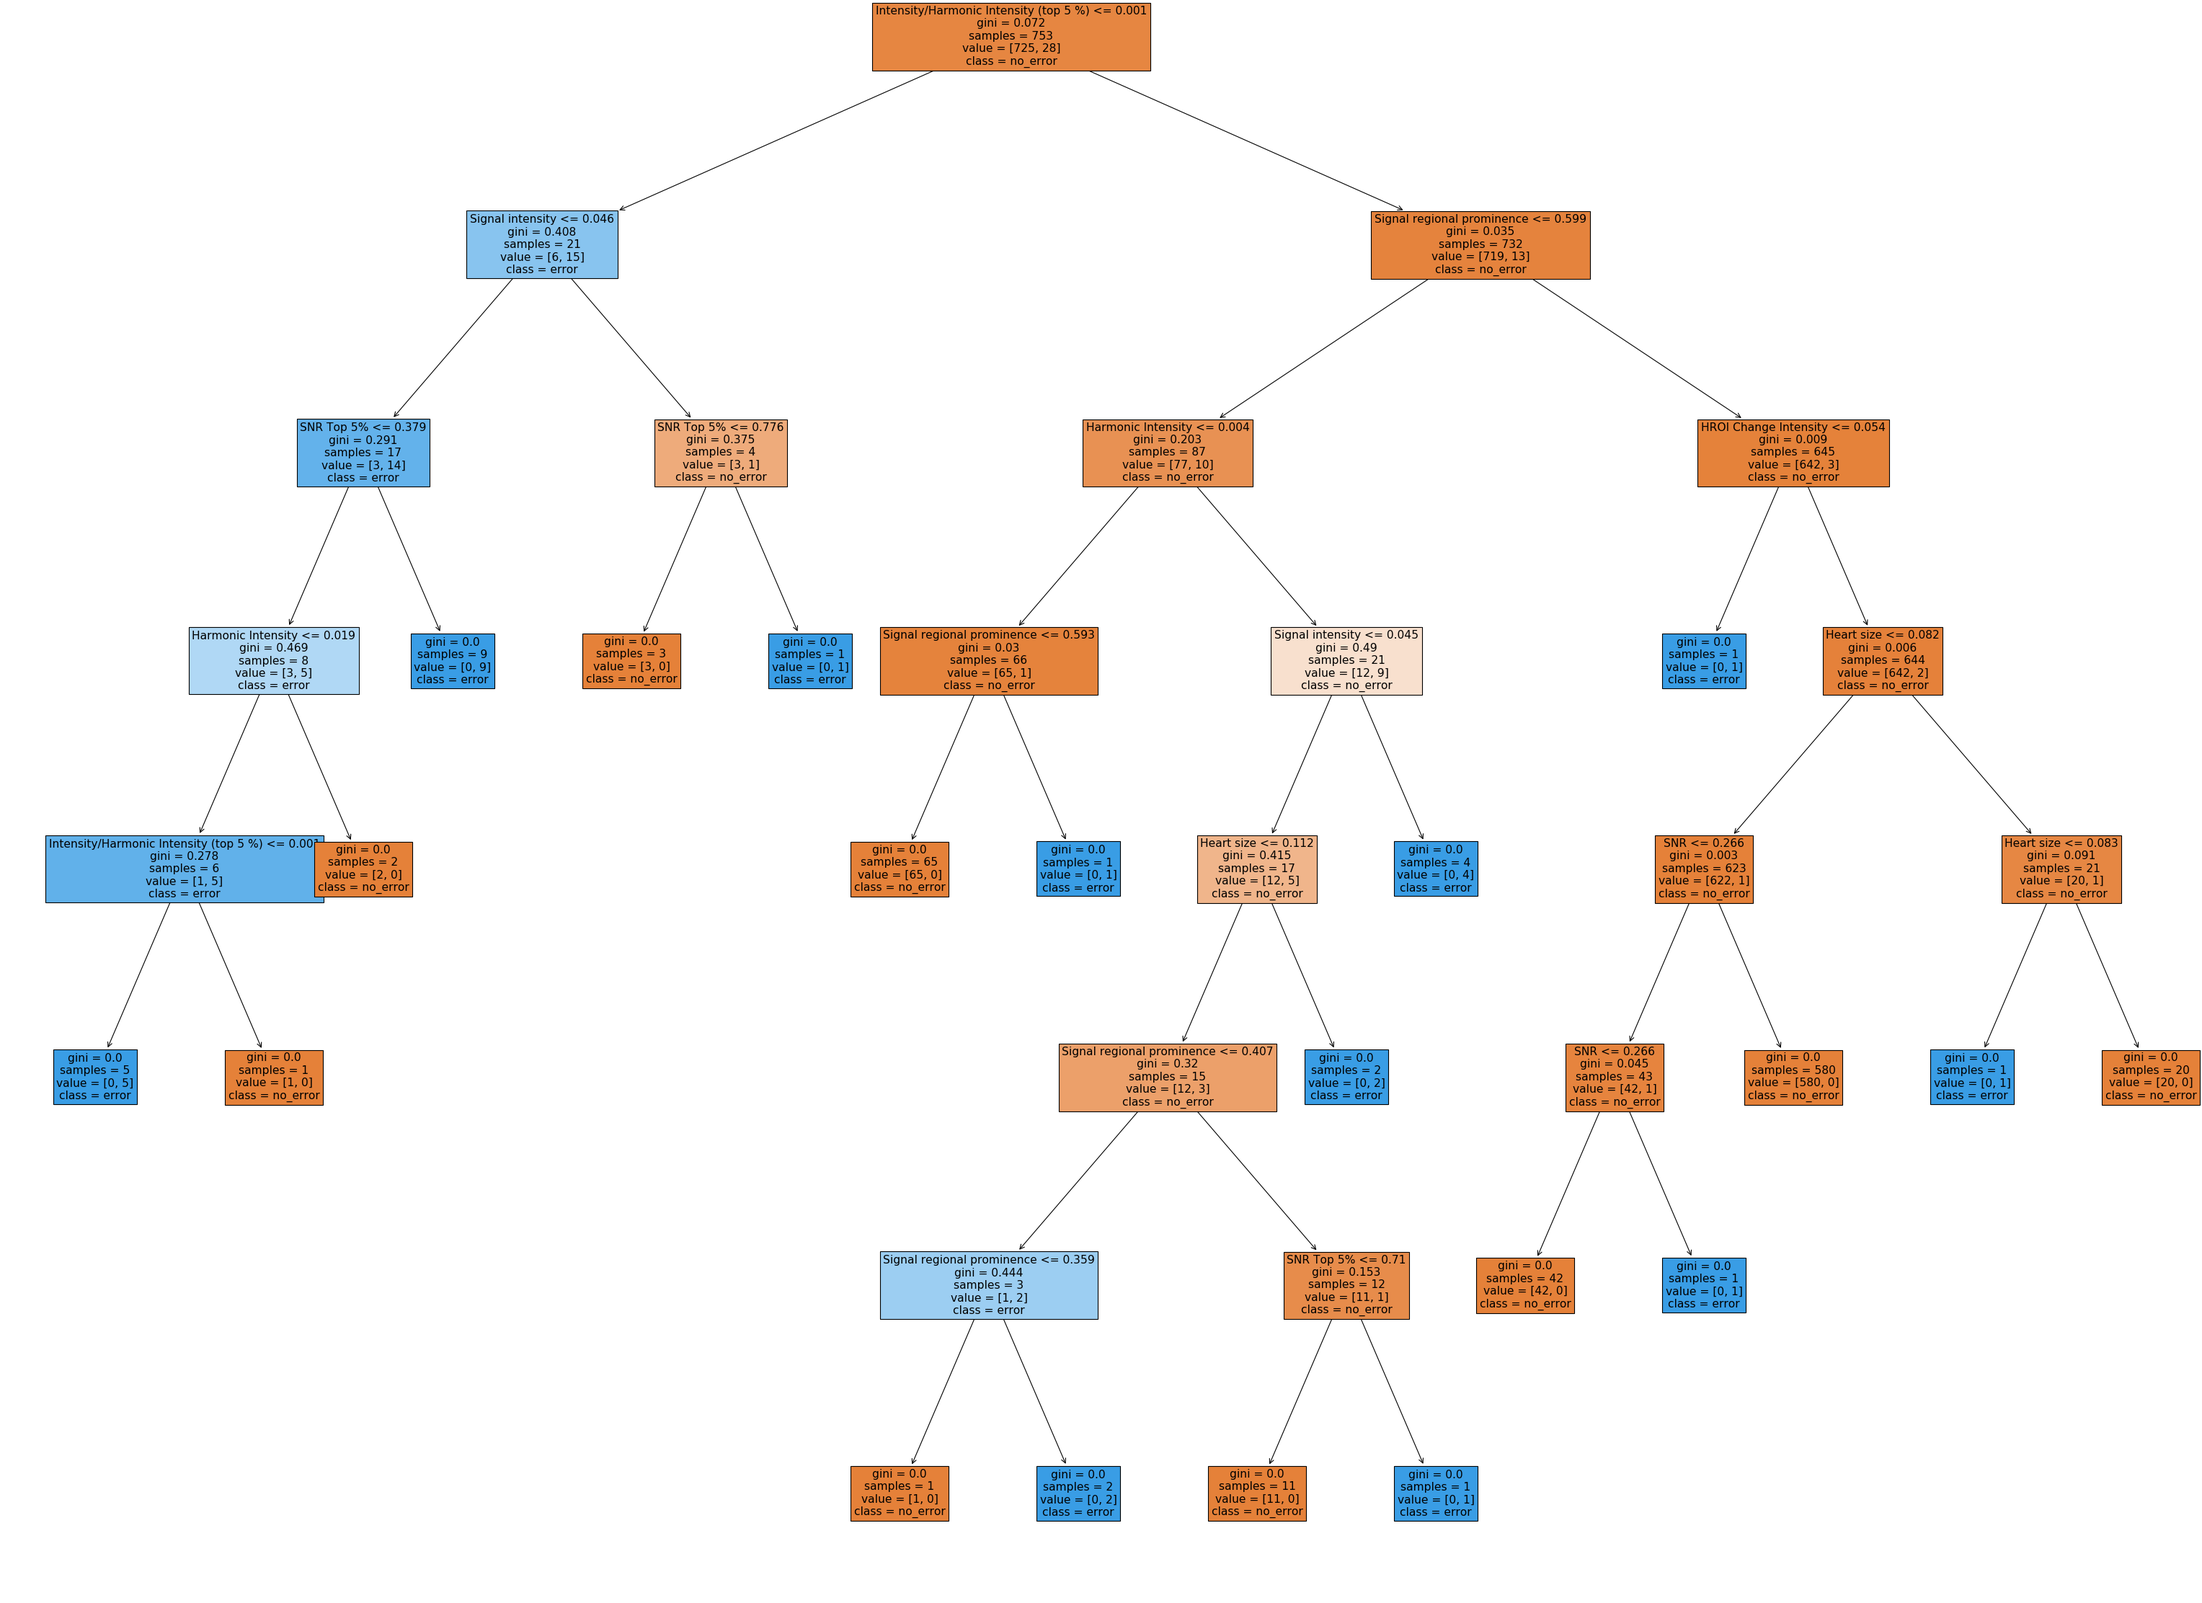
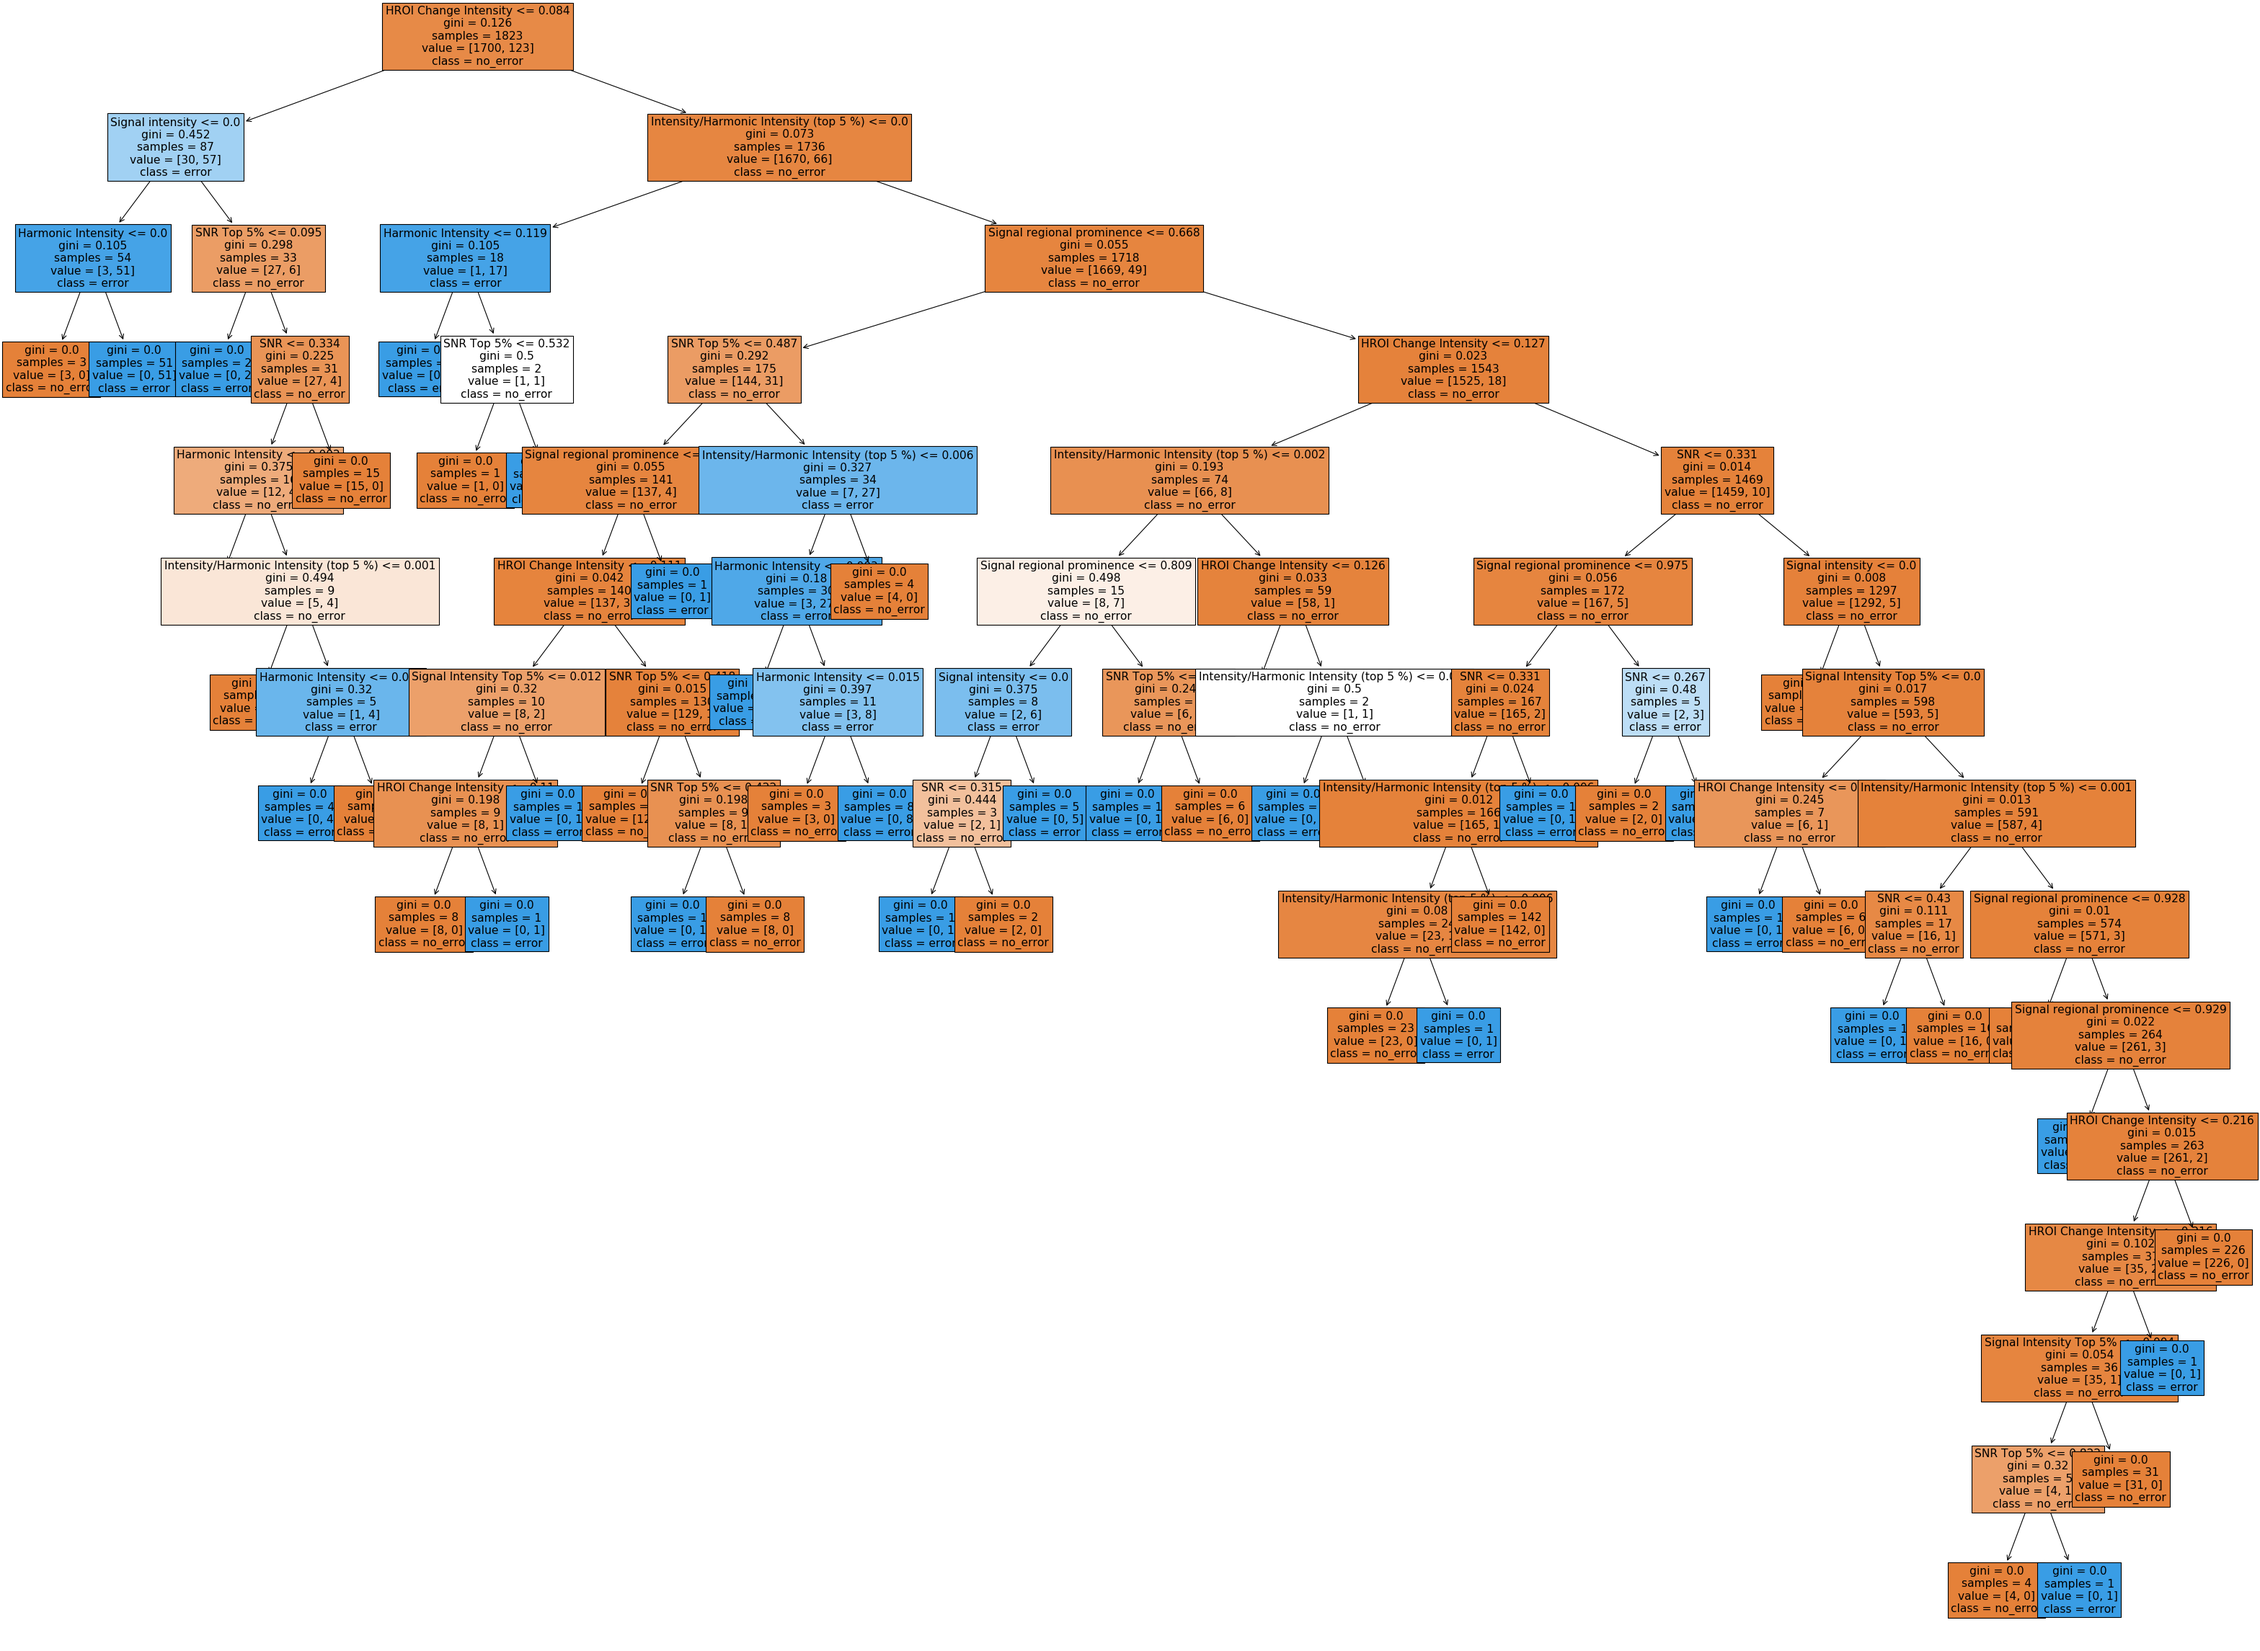
Decision tree almost done.

diff --git a/qc_analysis/decision_tree/src/analysis.py b/qc_analysis/decision_tree/src/analysis.py
@@ -27,11 +27,11 @@ from sklearn.tree import DecisionTreeClassifier
 from sklearn.model_selection import train_test_split, GridSearchCV
 
 #################### -- GLOBALS -- ####################
-TEST_SET_SIZE = 0.3
+TEST_SET_SIZE = 0.2
 
-PLOT_SAVE_DIR = os.path.relpath("figs")
-DATA_SAVE_DIR = os.path.relpath("thresholds")
-TREE_SAVE_DIR = os.path.relpath("data")
+PLOT_SAVE_DIR = "figs"
+DATA_SAVE_DIR = "thresholds"
+TREE_SAVE_DIR = os.path.join(__file__, *(4 * [os.pardir]), "data")
 
 LABELS = "error"
 
@@ -74,14 +74,16 @@ def plot_qc_params(data: pd.DataFrame,
     plt.close()
 
 def convert_error_cat(actual: Iterable, desired: Iterable, threshold: float) -> list:
+    # 1 -> ERROR and 0 -> NO ERROR.
     return [1 if abs(a - d) >= threshold else 0 for a, d in zip(actual, desired)]
 
 def process_data(raw_data: pd.DataFrame, threshold: float) -> Tuple[pd.DataFrame, np.array]:
     # Columns to drop will also drop prexisting error columns.
-    data = raw_data[(QC_FEATURES + ["Heartrate (BPM)", "ground truth"])]
-    
     actual = "Heartrate (BPM)"
     desired = "ground truth"
+    
+    data = raw_data[QC_FEATURES + [actual, desired]].copy()
+    
     data[LABELS] = convert_error_cat(data[actual], data[desired], threshold)
     
     data = data.drop(columns = [actual, desired])
@@ -94,23 +96,41 @@ def process_data(raw_data: pd.DataFrame, threshold: float) -> Tuple[pd.DataFrame
 
 def decision_tree(data: pd.DataFrame) -> Tuple[sklearn.tree.DecisionTreeClassifier, dict]:
     Y = data.pop(LABELS)
-    # X_train, X_test, Y_train, Y_test = train_test_split(data, Y, test_size = TEST_SET_SIZE, random_state = 104729)
+
+    X_train, X_test, Y_train, Y_test = train_test_split(
+        data, 
+        Y, 
+        test_size = TEST_SET_SIZE, 
+        random_state = 104729,
+        shuffle = True
+    )
+
     classifier = DecisionTreeClassifier(random_state = 224737, min_samples_split = 2)
     
     # K-Fold cross validation.
     folds = 6
-    cv_results = cross_validate(classifier, data, Y, cv = folds, scoring = "accuracy")
+    cv_results = cross_validate(
+        estimator = classifier, 
+        X = X_train, 
+        y = Y_train, 
+        cv = folds, 
+        scoring = "accuracy",
+        return_train_score = True,
+        return_estimator = True
+    )
+
+    best_classifier = cv_results["estimator"][np.argmax(cv_results["test_score"])]
 
     classifier_results = {
         "K Folds": folds,
-        "Train Scores" : cv_results.get("train_score"), 
-        "Test Scores": cv_results.get("test_score"), 
-        "Mean Train Score": np.mean(cv_results.get("train_score")),
-        "Mean Test Score": np.mean(cv_results.get("test_score"))
+        "Train Scores": cv_results["train_score"], 
+        "Validation Scores": cv_results["test_score"], 
+        "Mean Train Score": np.mean(cv_results["train_score"]),
+        "Mean Validation Score": np.mean(cv_results["test_score"]),
+        "Best Classifier Test Score": best_classifier.score(X_test, Y_test)
     }
-    
-    classifier_results = {k: [v] for k, v in classifier_results.items() if not isinstance(v, list)}
-    return classifier, classifier_results
+
+    return best_classifier, {k: [v] for k, v in classifier_results.items() if not isinstance(v, list)}
     
 def plot_decision_tree(tree: sklearn.tree.DecisionTreeClassifier,
                        save_name: str,
@@ -134,10 +154,11 @@ def plot_decision_tree(tree: sklearn.tree.DecisionTreeClassifier,
 def get_thresholds(unscaled_data: pd.DataFrame,
                    train_data_features: Iterable, 
                    classifier: sklearn.tree.DecisionTreeClassifier) -> dict:
+
     n_nodes = classifier.tree_.node_count
     feature = classifier.tree_.feature
     threshold = classifier.tree_.threshold
-    limits = dict()
+    limits = {}
 
     for i in range(n_nodes):
         if feature[i] != -2:
@@ -172,14 +193,13 @@ def write_results(raw_data: pd.DataFrame,
     results_dir = os.path.join(out_dir, "-".join(["qc_analysis_results_training", raw_data["DATASET"][0]]))
     
     if os.path.exists(results_dir):
-         print("Results directory already exists. Overwriting.")
+        print("Results directory already exists. Overwriting.")
     
     os.makedirs(results_dir, exist_ok = True)
     
     plots_dir = os.path.join(results_dir, PLOT_SAVE_DIR)
     data_dir = os.path.join(results_dir, DATA_SAVE_DIR)
-    tree_dir = os.path.join(results_dir, TREE_SAVE_DIR)
-    # print(tree_dir)
+    tree_dir = os.path.abspath(TREE_SAVE_DIR)
     
     if not os.path.exists(data_dir):
         os.makedirs(data_dir)
@@ -190,15 +210,26 @@ def write_results(raw_data: pd.DataFrame,
     if not os.path.exists(tree_dir):
         os.makedirs(tree_dir)
         
-    plot_qc_params(data = raw_data, limits = limits, save_name = "qc_params_thresholds", figsize = (10, 40), out_dir = plots_dir)
-    plot_decision_tree(tree = classifier, feature_names =  data.columns, save_name = "decision_tree", out_dir = plots_dir)
+    plot_qc_params(
+        data = raw_data, 
+        limits = limits, 
+        save_name = "qc_params_thresholds", 
+        figsize = (10, 40), 
+        out_dir = plots_dir
+    )
+    plot_decision_tree(
+        tree = classifier, 
+        feature_names = data.columns, 
+        save_name = "decision_tree", 
+        out_dir = plots_dir
+    )
     
     threshold_data = process_limits(limits)
     threshold_data.to_csv(os.path.join(data_dir, "qc_thresholds.csv"))
     
     pd.DataFrame(classifier_results).to_csv(os.path.join(data_dir, "classifier_results.csv"))
     
-    # Write the tree to a sav file. This file needs to be accessed by medaka_bpm.
+    # Write the tree to a sav file. This file needs to be accessed from medaka_bpm.
     joblib.dump(classifier, os.path.join(tree_dir, "decision_tree.sav"))
 
 def evaluate(trained_tree: sklearn.tree.DecisionTreeClassifier, data: pd.DataFrame):

diff --git a/qc_analysis/README.md b/qc_analysis/README.md
@@ -17,14 +17,13 @@ The results file needs to have the following QC parameters as features:
 
 	1. HROI Change Intensity
 	2. Harmonic Intensity
-	3. Heart size
-	4. Movement detection max
-	5. SNR
-	6. Signal intensity
-	7. Signal regional prominence
-	8. Intensity/Harmonic Intensity (top 5 %)
-	9. SNR Top 5%
-	10. Signal Intensity Top 5%
+	3. Movement detection max
+	4. SNR
+	5. Signal intensity
+	6. Signal regional prominence
+	7. Intensity/Harmonic Intensity (top 5 %)
+	8. SNR Top 5%
+	9. Signal Intensity Top 5%
 
 The output results directory (specified) will contain training metrics and qc parameter plots. The **decision tree evaluation** happens **automatically** via `medaka_bpm.analyse` if the tree has been trained as above.
 
